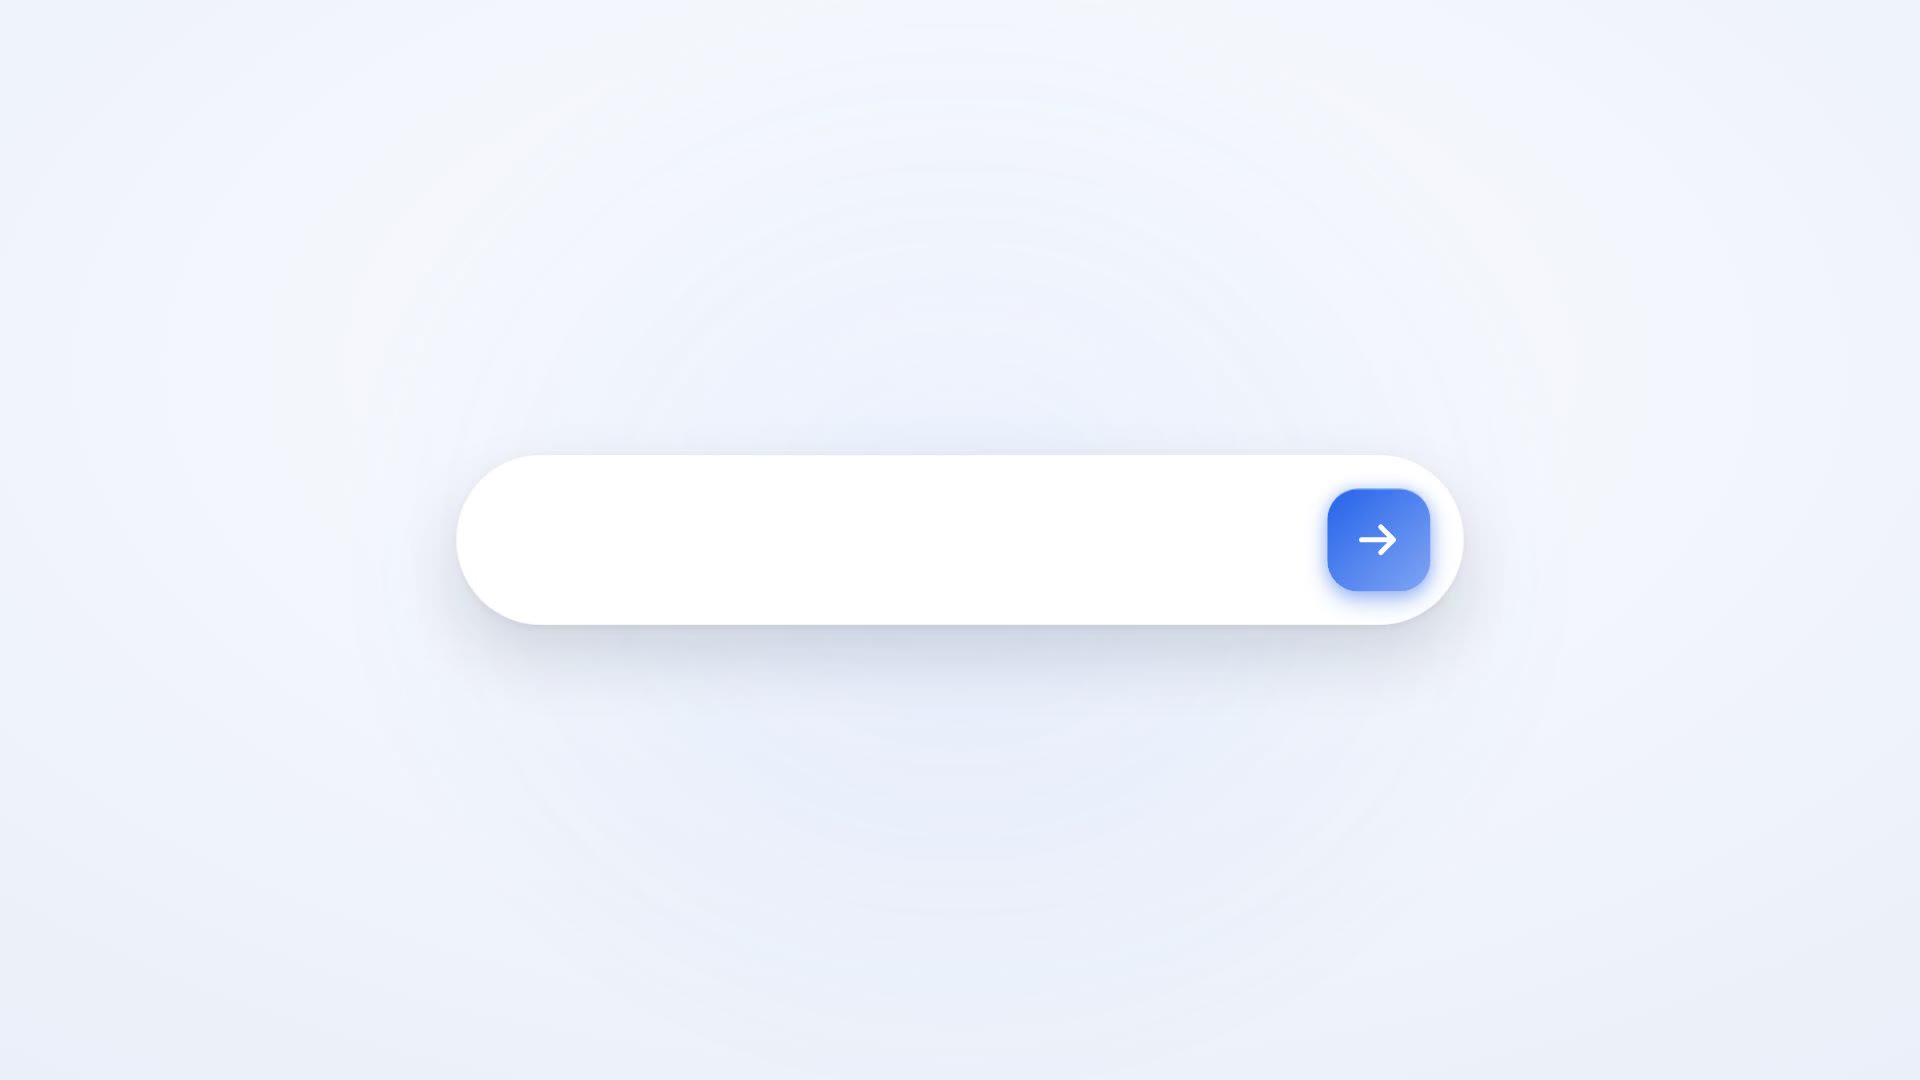
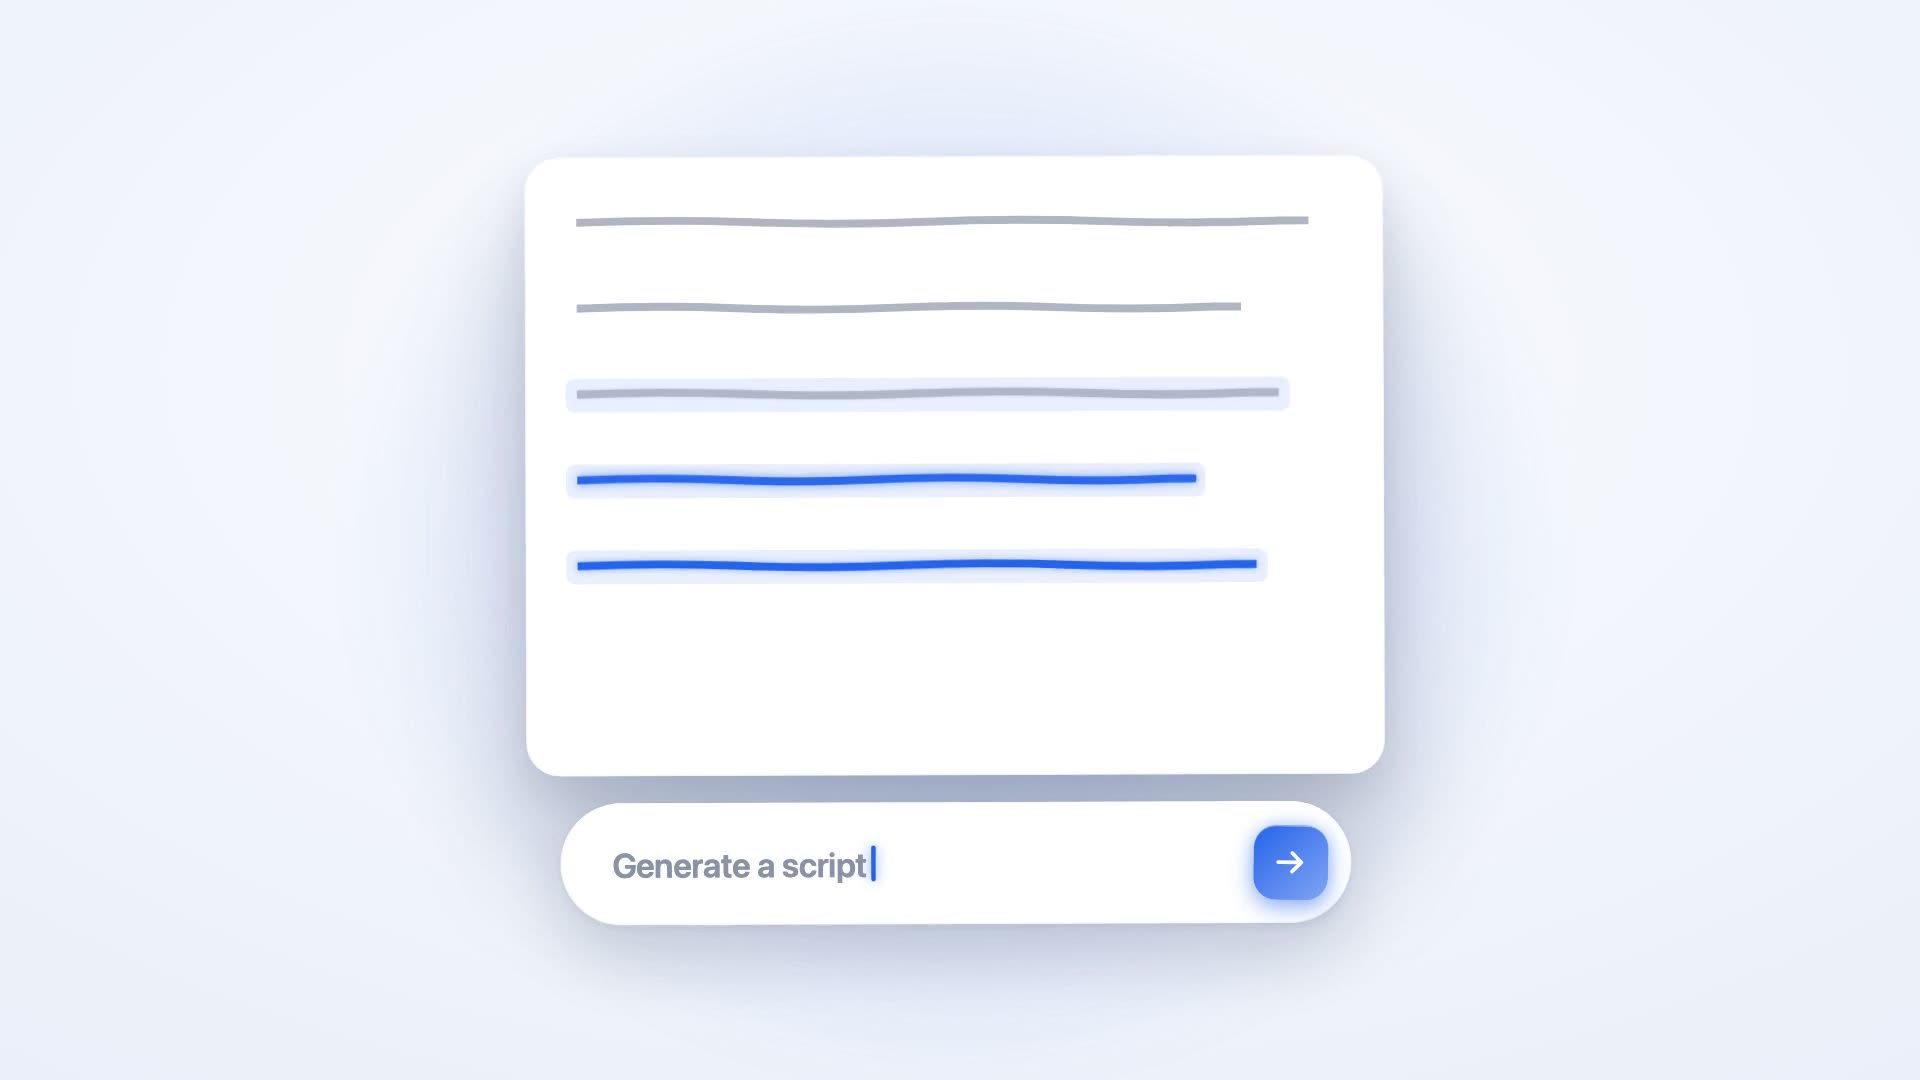
Use a static social preview image, skip bad frames in tool preview videos
Swaps the programmatic OG/Twitter card for a static opengraph-image.png.
Also jumps over a blown-out flash and a blank hold baked into the
transcript-extractor and scriptwriter preview clips, and drops a stray
border on the landing page tool logo icons.

diff --git a/src/components/dashboard/ProtectedVideo.tsx b/src/components/dashboard/ProtectedVideo.tsx
@@ -10,6 +10,7 @@ export function ProtectedVideo({
   posterDark,
   className,
   style,
+  skipRanges,
 }: {
   src: string;
   /** Dark-mode variant. When set, only one of `src`/`srcDark` is ever mounted (based on the resolved theme) instead of rendering both and hiding one with CSS. */
@@ -18,6 +19,8 @@ export function ProtectedVideo({
   posterDark?: string;
   className?: string;
   style?: CSSProperties;
+  /** [start, end] second ranges (source-clip time) to jump over -- e.g. a blown-out focus-pull intro or a blank hold baked into the export. Checked every `timeupdate`, so the jump lands within a frame or two of `start`. Applies to whichever of `src`/`srcDark` is active, since both variants share the same cut and timing. */
+  skipRanges?: [number, number][];
 }) {
   const { resolvedTheme } = useTheme();
   const activeSrc = resolvedTheme === "dark" && srcDark ? srcDark : src;
@@ -45,6 +48,24 @@ export function ProtectedVideo({
     observer.observe(el);
     return () => observer.disconnect();
   }, []);
+
+  useEffect(() => {
+    const el = ref.current;
+    if (!el || !skipRanges?.length) return;
+
+    const jumpIfInRange = () => {
+      const range = skipRanges.find(([start, end]) => el.currentTime >= start && el.currentTime < end);
+      if (range) el.currentTime = range[1];
+    };
+    // `loadeddata` catches the very first frame (before playback has produced a
+    // `timeupdate`) so the initial paint doesn't flash the skipped range too.
+    el.addEventListener("loadeddata", jumpIfInRange);
+    el.addEventListener("timeupdate", jumpIfInRange);
+    return () => {
+      el.removeEventListener("loadeddata", jumpIfInRange);
+      el.removeEventListener("timeupdate", jumpIfInRange);
+    };
+  }, [skipRanges]);
 
   return (
     <video

diff --git a/src/app/app/page.tsx b/src/app/app/page.tsx
@@ -33,6 +33,7 @@ const TOOLS: {
   videoDark?: string;
   videoPosterDark?: string;
   videoScale?: number;
+  videoSkipRanges?: [number, number][];
 }[] = [
   {
     title: "Niche Bender",
@@ -55,6 +56,8 @@ const TOOLS: {
     videoPoster: "/videos/transcript-extractor-poster.jpg",
     videoDark: "/videos/transcript-extractor-dark.mp4",
     videoPosterDark: "/videos/transcript-extractor-dark-poster.jpg",
+    // The clip opens on a ~0.3s blown-out focus-pull that flashes white on every loop -- skip it.
+    videoSkipRanges: [[0, 0.3]],
   },
   {
     title: "Scriptwriter",
@@ -66,6 +69,8 @@ const TOOLS: {
     videoPoster: "/videos/scriptwriter-poster.jpg",
     videoDark: "/videos/scriptwriter-dark.mp4",
     videoPosterDark: "/videos/scriptwriter-dark-poster.jpg",
+    // The doc card sits blank for ~1.1s before the lines draw in -- skip the empty hold.
+    videoSkipRanges: [[1.8, 2.9]],
   },
   {
     title: "Image Generator",
@@ -167,6 +172,7 @@ export default async function AppHome() {
                 videoDark={tool.videoDark}
                 videoPosterDark={tool.videoPosterDark}
                 videoScale={tool.videoScale}
+                videoSkipRanges={tool.videoSkipRanges}
               />
             ))}
           </div>

diff --git a/src/components/dashboard/ToolGridCard.tsx b/src/components/dashboard/ToolGridCard.tsx
@@ -39,6 +39,8 @@ interface ToolGridCardProps {
   videoPosterDark?: string;
   /** Zoom factor for the video preview, e.g. 1.25 for 125%. Defaults to 1 (no zoom). */
   videoScale?: number;
+  /** [start, end] second ranges to jump over during playback -- see ProtectedVideo. */
+  videoSkipRanges?: [number, number][];
   /** Not yet released -- still linked (the destination shows a "coming soon" placeholder), just visibly marked unavailable here. */
   comingSoon?: boolean;
 }
@@ -57,6 +59,7 @@ export function ToolGridCard({
   videoDark,
   videoPosterDark,
   videoScale = 1,
+  videoSkipRanges,
   comingSoon,
 }: ToolGridCardProps) {
   const toneClasses = TONE_CLASSES[tone];
@@ -78,6 +81,7 @@ export function ToolGridCard({
               posterDark={videoPosterDark}
               className="h-full w-full object-cover"
               style={videoScale !== 1 ? { transform: `scale(${videoScale})` } : undefined}
+              skipRanges={videoSkipRanges}
             />
           ) : thumbnail ? (
             <Image

diff --git a/src/components/landing/FeaturesGridSection.tsx b/src/components/landing/FeaturesGridSection.tsx
@@ -195,7 +195,7 @@ function ToolLogoCard({ title, description, href, badge, logo, icon: Icon, iconC
         className="relative flex h-full flex-col justify-between gap-5 rounded-[inherit] border border-slate-200 bg-white p-4 transition-colors duration-150 ease-out hover:border-slate-300"
       >
         <div className="flex items-start justify-between">
-          <span className="flex h-9 w-9 shrink-0 items-center justify-center rounded-lg border border-slate-200">
+          <span className="flex h-9 w-9 shrink-0 items-center justify-center rounded-lg">
             {logo ? (
               <Image src={logo} alt="" width={20} height={20} className="h-5 w-5 object-contain" />
             ) : Icon ? (
